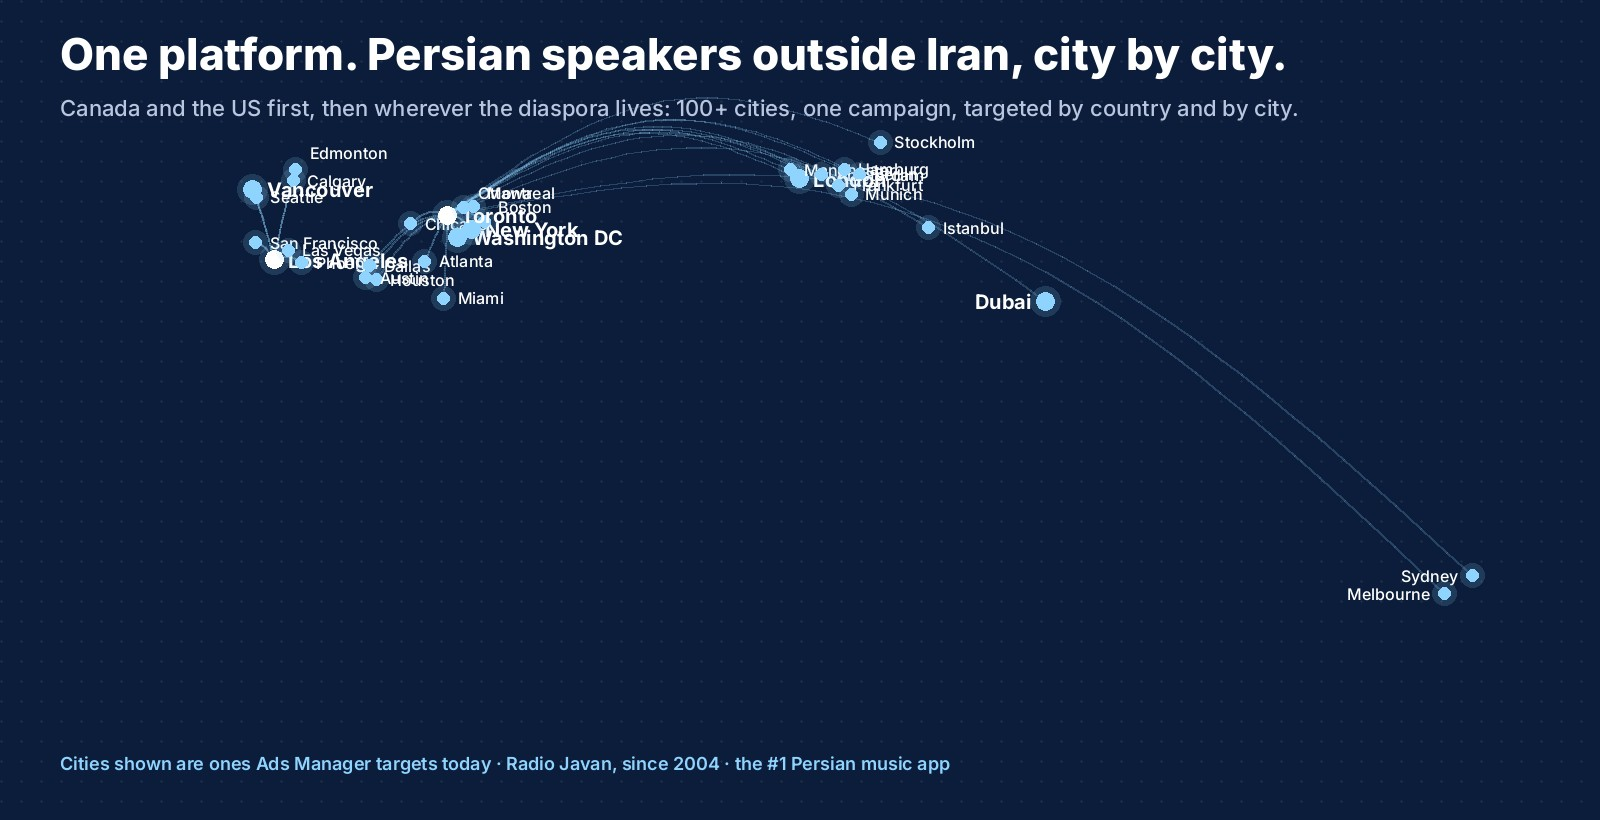
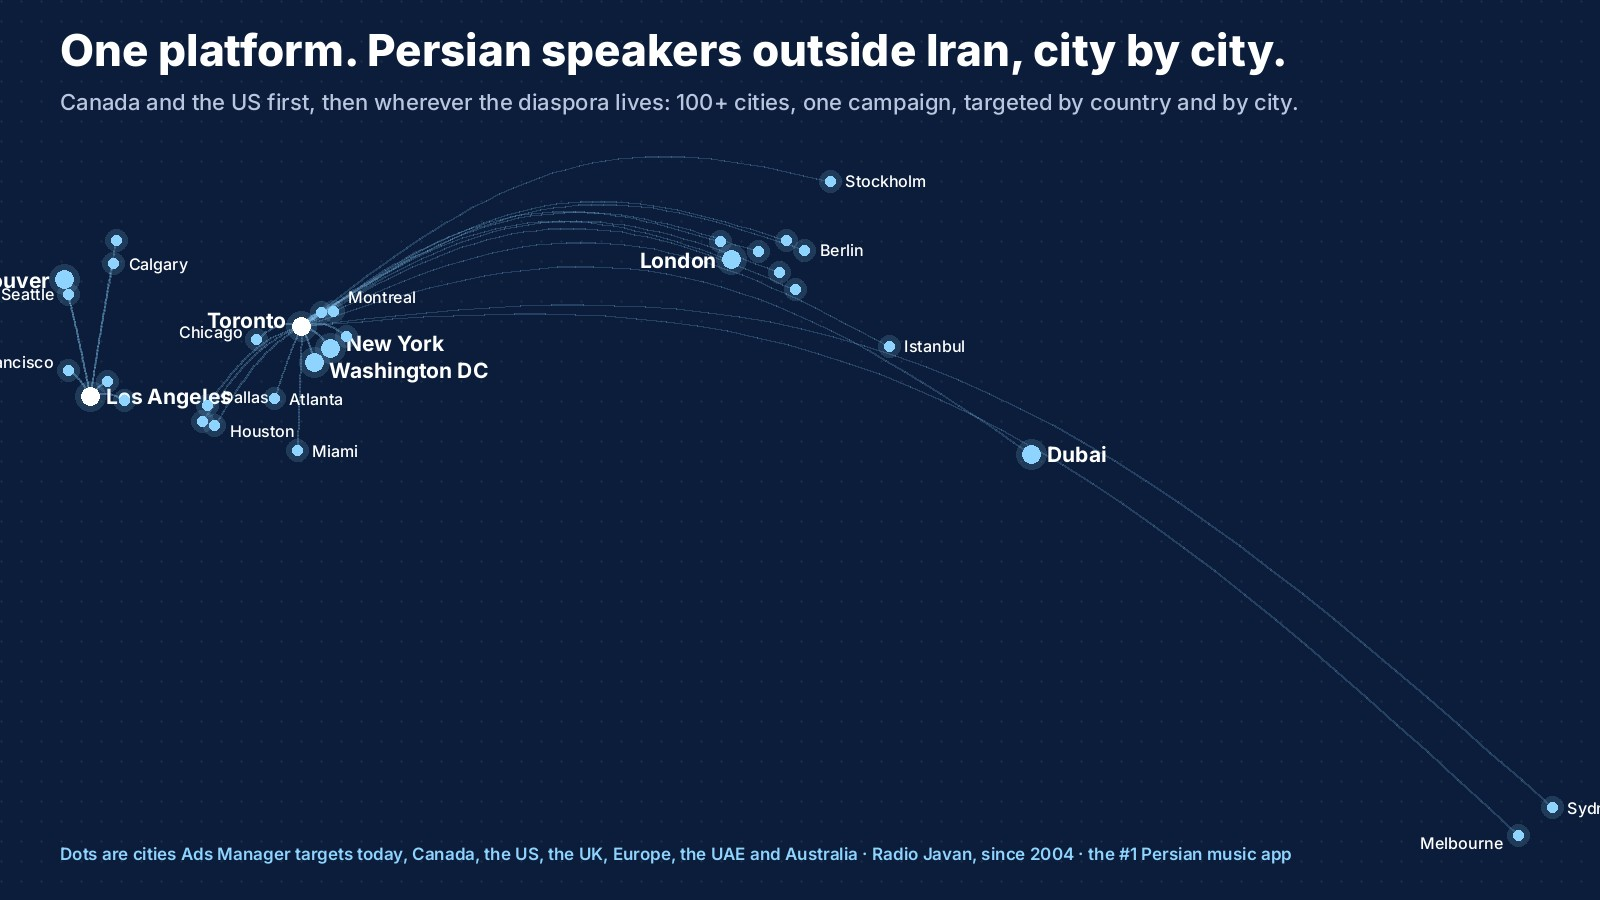
tidos: map crop + labels, 30-day plan Canada+US, events pill

diff --git a/tidos/index.html b/tidos/index.html
@@ -59,7 +59,7 @@
 <section class="rj" id="rj"><div class="in"><p class="kick">TIDOS ON RADIO JAVAN · SAMPLE</p><h2>Your app, in front of the Persian speakers who need it, city by city.</h2><p class="lead">Between the songs and on the home screen, built from your own boards, with the free intro session as the door. Three placements, one upload.</p>
 <div class="phones"><div><img src="audio.jpg" alt="Audio ad in the RJ player"><p class="cap">Audio · between the songs</p></div><div><img src="full_screen.jpg" alt="Full Screen ad"><p class="cap">Full Screen · when the app opens</p></div><div><img src="home_feed.jpg" alt="Home Feed card"><p class="cap">Home Feed · on the home screen</p></div></div>
 <div class="audio" id="aud"><div><b>Your 30-second Farsi audio ad</b><br><span>Written and voiced for TIDOS, ready to play between the songs.</span></div><audio controls preload="none" src="ad.mp3" onerror="document.getElementById('aud').querySelector('span').textContent='Being voiced now - the player appears here when it is ready.';this.style.display='none'"></audio></div>
-<p class="kick" style="margin-top:44px">THE FIRST 30 DAYS</p><div class="plan"><div><b>WEEK 1</b><p>Toronto goes live: the audio ad between the songs and the Home Feed card, free intro session as the ask. Installs and taps read daily.</p></div><div><b>WEEK 2</b><p>Full Screen joins in Toronto. The board that wins on Instagram becomes the Full Screen; the audio gets a second take.</p></div><div><b>WEEK 3</b><p>Vancouver and Montreal open with what Toronto taught us. Meta ads start on the same creatives for the people who are not on RJ yet.</p></div><div><b>WEEK 4</b><p>The read: cost per intro session by city, by placement, by creative. The next month's budget follows the winners. A call with Gina.</p></div></div>
+<p class="kick" style="margin-top:44px">THE FIRST 30 DAYS</p><div class="plan"><div><b>WEEK 1</b><p>Canada and the US go live: Toronto, Vancouver, Montreal, Los Angeles, Washington and New York, the audio ad between the songs and the Home Feed card, free intro session as the ask. Installs and taps read daily.</p></div><div><b>WEEK 2</b><p>Full Screen joins in every city. The board that wins on Instagram becomes the Full Screen; the audio gets a second take.</p></div><div><b>WEEK 3</b><p>Texas and the second tier of cities open with what week one taught us. Meta ads start on the same creatives for the people who are not on RJ yet.</p></div><div><b>WEEK 4</b><p>The read: cost per intro session by city, by placement, by creative. The next month's budget follows the winners. A call with Gina.</p></div></div>
 <p class="kick" style="margin-top:44px">ALSO FOR INSTAGRAM AND META</p><div class="grid2"><img src="instagram_1080x1350.jpg" alt="Instagram ad sample 4:5"><img src="instagram_1080x1080.jpg" alt="Instagram ad sample square"></div></div></section>
 <section class="sec"><h2>From their Instagram</h2><p class="sub">@tidos.health speaks to the diaspora in its own words, one feeling at a time. The ads keep that voice.</p><div class="grid">
 <div class="card"><img src="p08.jpg" alt=""><div><b>The free intro session</b><span>Start with no pressure</span></div></div>
